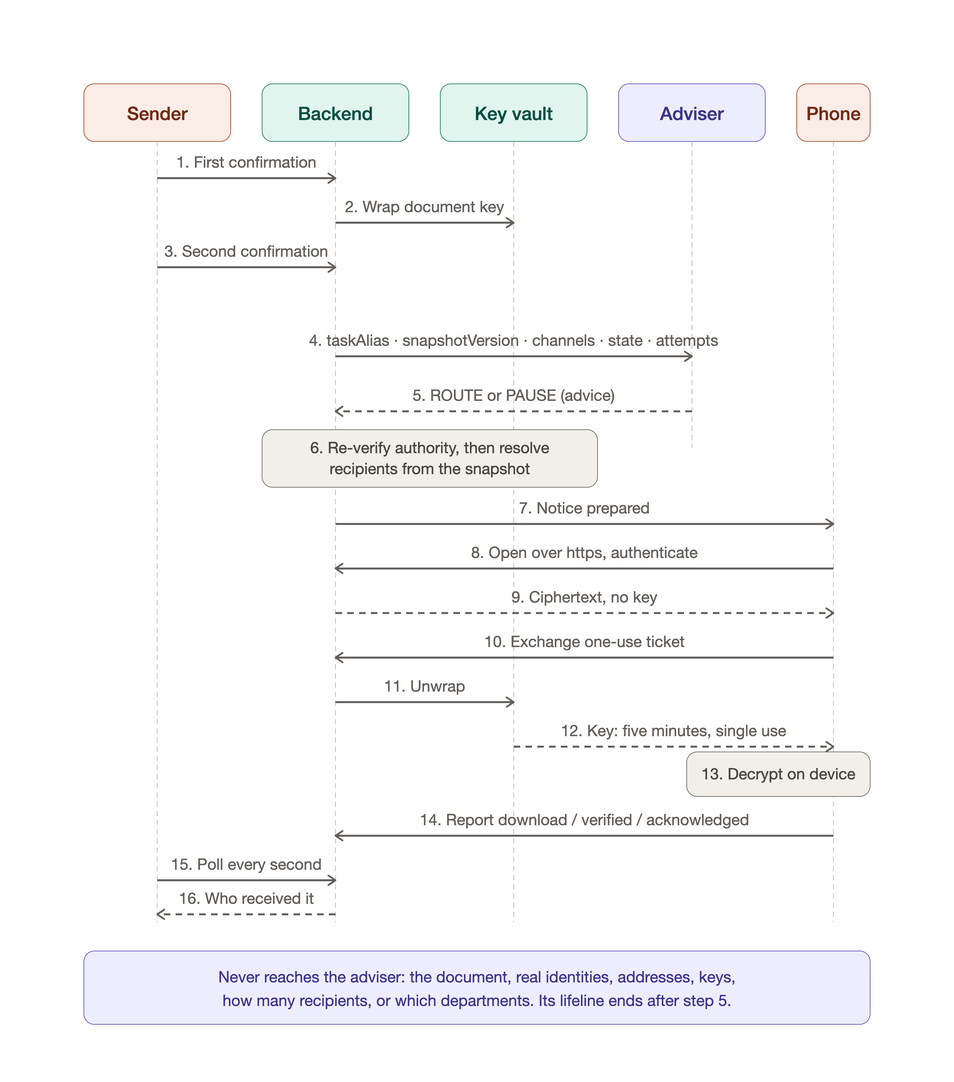
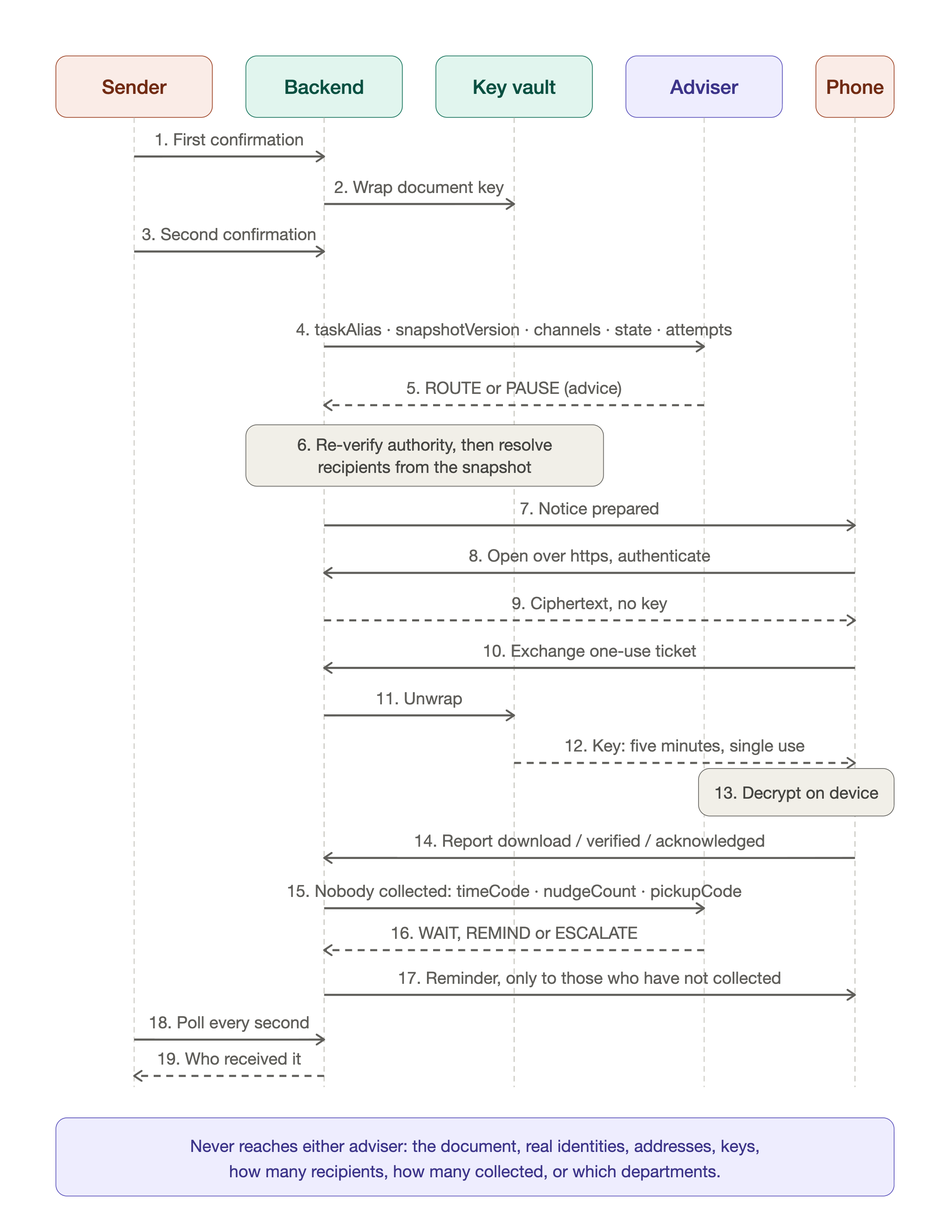
docs: bring every surface in line with the second adviser
A delivery follow-up adviser was added and the rest of the project went on
describing one. An audit against the code found sixteen statements that were
wrong rather than merely stale, and the user-facing ones mattered most.

public/index.html said "AI suggests approved routes only", in both languages.
The word only was false: the adviser also proposes WAIT, REMIND and ESCALATE,
none of which is a route. It was the first claim a judge would read.

public/app.js returned early on DRY_RUN_PREPARED, which stopped the poll loop
before the line that tells the sender work continues without the page open --
for exactly the state where follow-ups now keep running. The Chinese label for
that state said the delivery was finished, and the audit dashboard rendered the
new DELIVERY_FOLLOWUP event and its four reason codes as raw English
identifiers, because t() falls back to its key. ADVISER_UNAVAILABLE was
translated as a routing failure although both passes raise it.

The three diagrams asserted the same thing structurally. The sequence diagram
cut the adviser's lifeline at step five, so it drew a model that is never
consulted again; the state machine drew DRY_RUN_PREPARED with an inbound arrow
and no outbound one, which is the definition of an absorbing state and is what
this feature stopped being true. Both are redrawn and re-measured for overflow,
and the trust boundary now shows two questions with two projections rather than
one. All six rasters are regenerated.
[…]

diff --git a/public/i18n.js b/public/i18n.js
@@ -7,7 +7,7 @@ export const labels = {
   'Provider not configured; no verified model call': '模型服務未就緒；尚無已驗證的真實呼叫。',
   'Configured model (not execution evidence)': '設定的模型（不代表已執行）',
   'Human approves recipients and delivery limits twice.': '人：指定收件名單與交付限制，兩次確認後核准。',
-  'AI suggests approved routes only; it cannot read files or grant access.': 'AI：只根據允許的代碼建議路由；不能看文件、金鑰或憑據，也不能擴權。',
+  'AI proposes an approved route, or whether to remind; it cannot read files or grant access.': 'AI：在已核准的渠道中提出路由，或判斷是否催促；不能看文件、金鑰或憑據，也不能擴權。',
   'Browser encrypts files; backend validates authority, releases keys and records receipts.': '固定程式：瀏覽器加密；後端驗證授權、控制取鑰與保存回報。加密不是 AI 執行。',
   'Delivery is simulated; no real email is sent.': '投遞：目前只模擬通知，沒有寄出真實 email。',
   'Status': '狀態', 'Reasons': '原因',
@@ -79,7 +79,7 @@ export const labels = {
   'Resume rejected; refresh task': '恢復遭拒，請重新載入任務',
   'AUTHORIZATION_INVALID': '授權失效', 'ACTOR_DISABLED': '發文身分已停用',
   'SNAPSHOT_INVALID': '核准版本失效', 'PACKET_CHANGED': '密文完整性驗證失敗',
-  'ADVISER_UNAVAILABLE': '路由建議服務無法使用', 'ADVICE_INVALID': '建議格式不合規',
+  'ADVISER_UNAVAILABLE': '顧問模型無法使用', 'ADVICE_INVALID': '建議格式不合規', 'FOLLOWUP_WAIT': '判定為繼續等待', 'FOLLOWUP_REMIND': '判定為再次提醒', 'FOLLOWUP_ESCALATE': '判定為交付人工處理', 'FOLLOWUP_METADATA_INVALID': '催促投影不合規',
   'ADVICE_PAUSED': '建議暫停', 'RECIPIENT_DISABLED': '收件身分已停用',
   'DELIVERY_CONFIGURATION_INVALID': '投遞設定不合規', 'RETRY_EXHAUSTED': '重試額度已用完',
   'Loading authorizations': '正在載入授權', 'Authorizations loaded': '授權已載入',
@@ -142,14 +142,14 @@ export const labels = {
   'Issuing timed access credential...': '正在申請短效存取憑證', 'Waiting for policy decision.': '等待權限驗證。',
   'Checking signed credential against decode policy...': '正在驗證憑證與存取權限',
   'Ciphertext was not released to this decode path.': '驗證未通過，未提供密文。',
-  DRY_RUN_PREPARED: '模擬投遞完成（未寄信）', RETRY_WAIT: '等待有限重試', OUTCOME_UNKNOWN: '結果未知，停止自動重送',
+  DRY_RUN_PREPARED: '通知已備妥（未寄信，仍在追蹤）', RETRY_WAIT: '等待有限重試', OUTCOME_UNKNOWN: '結果未知，停止自動重送',
   PAUSED: '嘗試次數用盡，已停止', PENDING_CHECK: '等待檢查', APPROVED: '已核准', DRAFT: '草稿', LOCKED: '已固定草稿',
   INVALIDATED: '舊版失效', REVOKED: '已撤銷', ALLOW: '允許', DENY: '拒絕', INFO: '紀錄',
   synthetic_fixture: '合成測試建議（非真實模型呼叫）', demo_fallback: '本機示範', Demo: '本機示範',
   CAPABILITY_MATCH: '符合允許的傳輸能力', STATE_CHANGED: '狀態已變更', STATE_CONFLICT: '版本或狀態衝突',
   ACCESS_DENIED: '未通過權限驗證', INVALID_REQUEST: '要求格式不符', SERVICE_UNAVAILABLE: '服務暫時不可用',
   DELIVERY_UPDATED: '投遞狀態更新', REQUEST_REJECTED: '要求被拒絕', SNAPSHOT_TRANSITION: '版本狀態變更',
-  DELIVERY_TRANSITION: '投遞狀態變更', PACKAGE_CREATED: '密件已建立', TIMED_CREDENTIAL_ISSUED: '已發行短效憑證',
+  DELIVERY_TRANSITION: '投遞狀態變更', DELIVERY_FOLLOWUP: '催促決策', PACKAGE_CREATED: '密件已建立', TIMED_CREDENTIAL_ISSUED: '已發行短效憑證',
   DECODE_ATTEMPT: '解密驗證', PACKAGE_REVOKED: '密件已撤銷',
   document: '文件', taskId: '任務代碼', version: '版本', recipients: '核准收件人', channels: '允許渠道',
   expiresAt: '到期時間', commitment: '版本指紋', policy: '政策建議', envelopePreview: '封裝預覽',

diff --git a/delivery-followup.js b/delivery-followup.js
@@ -5,9 +5,10 @@ import { normalizeDownloadPolicy } from './download-policy.js';
 /**
  * The delivery loop as built handles a notice that could not be prepared: a transient failure
  * becomes RETRY_WAIT and is retried under a bounded backoff. It does not handle the other half,
- * which is a notice that was prepared and that nobody acted on. DRY_RUN_PREPARED is terminal in
- * the worker, so a REQUIRED_ACK task can sit untouched until its deadline passes and a single
- * overdue record is written — by which time the delivery that had to happen has not happened.
+ * which is a notice that was prepared and that nobody acted on. DRY_RUN_PREPARED used to be the end
+ * of the worker's interest, so a REQUIRED_ACK task sat untouched until its deadline passed and a
+ * single overdue record was written — by which time the delivery that had to happen had not
+ * happened. This module is what makes that state non-terminal.
  *
  * This module closes that half. It only applies to REQUIRED_ACK, because TIME_LIMITED answers the
  * question by itself: the window shuts and there is nothing left to chase.

diff --git a/public/app.js b/public/app.js
@@ -98,9 +98,12 @@ async function trackDelivery(id, version) {
         const prefix = location.pathname.startsWith('/zh-TW/') ? '/zh-TW' : '';
         recipientLink.href = prefix + '/decode.html?id=' + encodeURIComponent(id) + '&version=' + version;
         recipientLink.hidden = false;
-        return;
       }
-      if (!['PENDING_CHECK', 'RETRY_WAIT'].includes(job.status)) return;
+      // A prepared notice used to end this loop. It no longer ends the work: a delivery that must be
+      // acknowledged is reconsidered in the backend until its deadline, and a reminder returns to
+      // this same state. Leaving the loop here suppressed the one line that tells the sender work
+      // continues without the page open, for exactly the state where that is now true.
+      if (!['PENDING_CHECK', 'RETRY_WAIT', 'DRY_RUN_PREPARED'].includes(job.status)) return;
     } catch {
       if (generation === trackingGeneration) setText(deliveryStatus, 'Delivery status unavailable');
       return;

diff --git a/public/index.html b/public/index.html
@@ -10,7 +10,7 @@
 <p id="modelRuntimeStatus" role="status" data-i18n="Model status unavailable">Model status unavailable</p>
 <p id="configuredModel"></p>
 <ul><li data-i18n="Human approves recipients and delivery limits twice.">Human approves recipients and delivery limits twice.</li>
-<li data-i18n="AI suggests approved routes only; it cannot read files or grant access.">AI suggests approved routes only; it cannot read files or grant access.</li>
+<li data-i18n="AI proposes an approved route, or whether to remind; it cannot read files or grant access.">AI proposes an approved route, or whether to remind; it cannot read files or grant access.</li>
 <li data-i18n="Browser encrypts files; backend validates authority, releases keys and records receipts.">Browser encrypts files; backend validates authority, releases keys and records receipts.</li>
 <li data-i18n="Delivery is simulated; no real email is sent.">Delivery is simulated; no real email is sent.</li></ul>
 </section>

diff --git a/docs/agent/local-workflow.md b/docs/agent/local-workflow.md
@@ -10,7 +10,7 @@ The local sender confirms twice through a versioned snapshot. Load authorized re
 
 Transport remains email dry-run after both confirmations. `DRY_RUN_PREPARED` means only notice preparation, not complete handoff. Receipt and download-window states are separate. No further sender acknowledgement is required after the recipient reports complete receipt, and there is no promotion to real email.
 
-Humans own the recipient selection and grant. AI may recommend only approved routes; encryption and authorization remain outside AI. Documents, cryptographic material, credentials, and the full draft body are not returned through the coordinator model interface. Current tests use synthetic recommendations rather than live Nemotron inference.
+Humans own the recipient selection and grant. AI is asked two bounded questions and nothing else: which approved channel a prepared job should use, and whether an unacknowledged delivery should be waited on, reminded or escalated. Encryption and authorization remain outside AI, and so does who a reminder reaches, which fixed code resolves from receipts no adviser sees. Documents, cryptographic material, credentials, and the full draft body are not returned through the coordinator model interface. Current tests use synthetic recommendations rather than live Nemotron inference.
 
 The entrypoint uses an authorization id and bounded directory selection. Private task/version mappings and unattended dry-run processing are implemented; arbitrary natural-language role resolution and real endpoint/channel bindings are not. This scope refers to this project's tests, not independently verified legacy Shared Room MCP behavior.
 
@@ -38,19 +38,19 @@ Configure a local MCP client to launch `node scripts/coordinator-mcp.mjs` from t
 
 The HTTP coordinator accepts taskAlias and snapshotVersion and, for legacy delivery, a request id and allowlisted channel. It does not accept internal package IDs. Its responses are projected metadata, not raw package, credential, or audit records. The old application MCP-style endpoint is operator-only and cannot issue credentials.
 
-Default recommendations are labeled `synthetic_fixture`. Real file inference additionally requires LOCAL_ONLY=false, COORDINATOR_PROVIDER=nebius and backend provider settings; otherwise cloud mode fails closed. File adviser requests are allowlisted code-only input, bounded response size and deadline, with strict task/version/channel response validation. Worker reloads authorization after advice before dispatch. Adapter tests use fake fetch; they are not live Nemotron evidence or evidence of a semantic advantage over rules.
+Default recommendations are labeled `synthetic_fixture`. Real file inference additionally requires LOCAL_ONLY=false, COORDINATOR_PROVIDER=nebius and backend provider settings; otherwise cloud mode fails closed. Both adviser requests are allowlisted code-only input with a bounded response size and deadline. Each has its own validator: routing advice must carry taskAlias, snapshotVersion, action, channel and reasonCode, and follow-up advice must carry taskAlias, snapshotVersion, action and reasonCode, with no channel key at all. The follow-up validator additionally refuses a reminder past the budget, any action other than WAIT on a fully collected delivery, and a reason that contradicts the input it was given. Worker reloads authorization after advice before dispatch. Adapter tests use fake fetch; they are not live Nemotron evidence or evidence of a semantic advantage over rules.
 
 ## State and Persistence
 
 New snapshots contain private task/version-scoped UUID aliases for selected recipients and their approved simulated endpoints. The snapshot commitment binds this mapping; confirmation and dispatch verify it. The coordinator sees only the alias projection, never private recipient ids or endpoint ids. Endpoints are explicitly dry-run identifiers, not real email/address resolution. Pre-mapping snapshots fail closed on the new server; create a new reviewed draft instead of silently migrating old approvals. Existing running servers are not automatically upgraded by source edits.
 
 - `PENDING_CHECK`: no delivery attempt recorded.
-- `DRY_RUN_PREPARED`: a local notice was prepared; no email was sent and no remote delivery is claimed.
+- `DRY_RUN_PREPARED`: a local notice was prepared; no email was sent and no remote delivery is claimed. For a delivery that must be acknowledged this is not the end: while its deadline has not passed the job is reconsidered here, and a reminder returns it to this same state rather than moving it on.
 - `RETRY_WAIT`: a configured synthetic transient failure, with exponential backoff.
 - `OUTCOME_UNKNOWN`: ambiguous outcome; no automatic resend.
 - `PAUSED`: attempts exhausted; this processing run stops without automatic resend.
 
-The human-owned grant may set `simulatedOutcomes` to `prepared`, `transient`, or `unknown`. Clients cannot select outcomes. File jobs run in the backend timer with bounded retries; closing the sender page does not stop them. The sender display polls status and offers manual receipt refresh. Legacy package tools retain explicit delivery requests for regression compatibility.
+The human-owned grant may set `simulatedOutcomes` to `prepared`, `transient`, or `unknown`. Clients cannot select outcomes. File jobs run in the backend timer with bounded retries, and prepared REQUIRED_ACK jobs are reconsidered there on a cadence taken from each task's own window rather than from the clock. Closing the sender page does not stop either pass. The sender display polls status and offers manual receipt refresh. Legacy package tools retain explicit delivery requests for regression compatibility.
 
 Requests and transitions are persisted with the package. A per-process queue serializes API operations and a data-directory lock prevents two instances of this version from sharing a store. After an unclean crash, inspect the recorded PID before manually clearing a stale lock. Do not run old server versions against this data directory. JSON parse errors fail closed rather than replacing stores with empty arrays.
 
@@ -58,7 +58,7 @@ Requests and transitions are persisted with the package. A per-process queue ser
 
 Snapshot approval and its unique job are stored in one task aggregate. Before dispatch or credential release, the server rereads task/version state; old cache assertions cannot authorize access. An approved version is not overwritten by edits, and a new draft does not revoke it. Explicit revocation prevents future credential release and verification but cannot recall keys or plaintext already obtained.
 
-Audit records use fixed task/version/event/reason/state/time/attempt fields. Identity, endpoint, credential and raw-error fields are excluded; model tools receive only their separate status projection. Snapshot and delivery transitions queue sanitized audit events alongside state, then replay and acknowledge each event idempotently. Other legacy audit producers are still separate writes. No full database transaction, power-loss guarantee or tamper-proof storage is claimed.
+Audit records use fixed task/version/event/reason/state/time/attempt fields. Identity, endpoint, credential and raw-error fields are excluded; model tools receive only their separate status projection. Snapshot transitions, delivery transitions and follow-up decisions queue sanitized audit events alongside state, then replay and acknowledge each event idempotently. Other legacy audit producers are still separate writes. No full database transaction, power-loss guarantee or tamper-proof storage is claimed.
 
 Tests now also cover four material edits, old confirmation tokens, parallel duplicate confirmations, approved-snapshot preservation, explicit revocation, ciphertext/IV/salt binding, actual server restart, terminal HTTP outcomes and persisted audit privacy. A local browser check verified first confirmation, edit invalidation, version 2 reconfirmation, second confirmation and one-attempt dry-run. Live provider evidence is not part of these checks.
 

diff --git a/SUBMISSION_GAP_CHECK.md b/SUBMISSION_GAP_CHECK.md
@@ -1,0 +1,98 @@
+# Submission Gap Check
+
+Updated: 2026-09-19 Asia/Taipei
+
+## Current Gate Status
+
+Local self-checks against the tracked tree:
+
+```text
+export-gate:      pass, blocking 0, P0 0, P1 0, P2 0
+release-boundary: PASS, findings 0
+localguard:       73 findings, 3 CRITICAL / 15 HIGH / 50 MEDIUM / 5 LOW
+npm test:         93 of 93, thirty consecutive runs
+preflight:hosted: 7 of 8, 0 blocking, 1 advisory
+fuzz:             40,000 projections, 2,400 worker ticks, 0 invariant violations
+```
+
+The CRITICAL and most HIGH findings are adjudicated false positives recorded in
+`SECURITY_SCAN_EVIDENCE.md`: three deliberate canary strings in adviser tests, field names rather
+than values for the privacy rule, and a model filename matched as a high-entropy literal.
+
+## Devpost Required Items
+
+| Requirement | Status | Evidence |
+|---|---|---|
+| Public code repository | Done | `https://github.com/jiarong0423/zero-trust-edge-enclave` |
+| MIT license, visible at repository top | Done | `LICENSE` |
+| README with setup instructions | Done | `README.md`, section Run Locally, verified from a fresh clone |
+| README highlights NVIDIA model use | Done | `README.md`, section NVIDIA / Nebius |
+| README states where Token Factory carried the work | Done | same section |
+| README states other Nebius services used | Done | same section, states none are used |
+| Architecture diagrams | Needs update | `docs/assets/`, three SVG and their PNG and JPG renders; see Documentation Drift below |
+| Working demo or test build | Done | Repository is the test build; `npm run setup:local && npm test && npm run dev` |
+| Track | Form-only | Best Apps and Agents |
+| New or existing project | Form-only | New; first commit 2026-09-07, after the 2026-08-26 start |
+| Platform feedback | Drafted | `logs/decisions/devpost_submission_20260918.md`, not published |
+| Demo video URL | Still needed | Not recorded. Required to submit |
+| Builders and Brews city | Form-only | Taipei, only if attendance is confirmed |
+| Submitter type, country, declarations | Form-only | Fill directly in Devpost |
+
+## Documentation Drift, 2026-09-19
+
+A second adviser was added for delivery follow-up. The code is the ground truth: `ADVICE_KINDS` in
+`file-adviser.js` holds `route` and `followup`, each with its own five-field projection and its own
+validator, and `advanceFollowups` in `file-worker.js` re-enters `DRY_RUN_PREPARED`, which is
+therefore no longer terminal.
+
+An audit against that ground truth found statements elsewhere that no longer hold. They are split
+by whether a reader would be misled or merely under-informed.
+
+### Wrong: states something untrue
+
+| Location | Statement | Why it is wrong |
+|---|---|---|
+| `public/index.html:13` | "AI suggests approved routes **only**" | The adviser also proposes WAIT, REMIND and ESCALATE, none of which is a route. Sender landing page, both languages. |
+| `public/i18n.js:10` | 「只根據允許的代碼建議路由」 | Same claim, more emphatic in Chinese. |
+| `public/app.js:97-102` | Early return on `DRY_RUN_PREPARED` | Suppresses the "Status tracking stopped; backend continues" line for exactly the state where follow-ups keep running. |
+| `public/i18n.js:145` | `DRY_RUN_PREPARED: '模擬投遞完成（未寄信）'` | 「完成」 tells a Chinese-language sender the job is finished; for REQUIRED_ACK it is not. |
+| `public/i18n.js:82` | `ADVISER_UNAVAILABLE: '路由建議服務無法使用'` | The same code is also the follow-up pass's rejection; the label names the wrong subsystem. |
+| `docs/assets/architecture-sequence.svg:34` | Adviser lifeline ends at `y=318` | Asserts the model is never consulted after routing. |
+| `docs/assets/architecture-sequence.svg:10,73-74` | "The adviser lifeline ends after step five" | Stated in the accessible description and the footnote. |
+| `docs/assets/architecture-state-machine.svg:53-55` | `DRY_RUN_PREPARED` drawn with no outgoing edge | Drawn as an absorbing state; the follow-up pass re-enters it. |
+| `docs/assets/architecture-state-machine.svg:10` | Transition list in the description | Enumerates every transition and omits the follow-up self-transition. |
+| `docs/agent/approved-delivery-architecture.md:76` | 「五欄是 taskAlias、snapshotVersion、channels、state、attempts」 | Presented as the definition of the AI boundary; there are two such projections. |
+| `docs/agent/approved-delivery-architecture.md:39` | Mermaid node for the five-field allowlist | Same defect drawn into the graph. |
+| `docs/agent/approved-delivery-architecture.md:77` | "模型不可用或輸出無效時工作進入 PAUSED" | False for the follow-up pass, which records `followupPausedBy` and leaves the status unchanged. |
+| `docs/agent/local-workflow.md:13` | "AI may recommend only approved routes" | Same exclusivity claim as the landing page. |
+| `docs/agent/local-workflow.md:41` | "strict task/version/channel response validation" | `validateFollowupAdvice` forbids a `channel` key. |
+| `docs/agent/zeabur-deployment.md:65,68` | Provider-quota bound | Counts the routing pass only; the follow-up pass issues calls on a separate schedule, so the stated worst case is arithmetically wrong. |
+| `docs/agent/security-gate-summary.md:58,64` | "all 71 npm tests", "the manifest is now 89" | Now 93 tests and 104 manifest entries. |
+
+### Incomplete: true but omits the second adviser
+
+`docs/assets/architecture-trust-boundary.svg:61`, the header comment naming sources of truth in all
+three SVGs, the reason-code panel in the state machine, `docs/agent/local-workflow.md:47-51,61`,
+`docs/agent/official-rule-alignment.md:15,45,58`, `docs/agent/zeabur-deployment.md:23`,
+`scripts/coordinator-mcp.mjs:16`, `MCP_SERVER_ALLOWLIST.md:53,58`, `SECURITY.md:9`, and the audit
+event and reason-code label tables in `public/i18n.js:80-84,151-153`, which fall back to raw English
+identifiers for the new `DELIVERY_FOLLOWUP` type and the four `FOLLOWUP_*` codes.
+
+### Checked, no finding
+
+`env.sample` has no comments and no follow-up variable to add. `public/audit.html` renders event
+types generically. The remaining pages carry no copy describing the adviser, the state set or the
+audit event types. `docs/assets/architecture-state-machine.svg:10` still correctly says all ten
+states come from the audit allowlist; the follow-up work added event types and codes, not states.
+
+## Corrected In This Pass
+
+`README.md` and `THREAT_MODEL.md`, English and Traditional Chinese, now describe both advisers,
+their separate projections, and that reminder targets are resolved by fixed code from receipts no
+adviser sees.
+
+## Not Yet Addressed
+
+Everything in the two tables above except `README.md` and `THREAT_MODEL.md`. The user-facing copy in
+`public/` is the highest priority of what remains, because it is what a judge reads first and one
+of its claims is false rather than merely stale.

diff --git a/THREAT_MODEL.md b/THREAT_MODEL.md
@@ -1,6 +1,6 @@
 # Threat Model
 
-Review date: 2026-09-08. Revised 2026-09-18: group codes were added to the private mapping for the sender and receipt surfaces, and deliberately kept out of every adviser and coordinator projection. Current file workflow, not the legacy passphrase demo. A Traditional Chinese translation follows the English text.
+Review date: 2026-09-08. Revised 2026-09-18: a second adviser was added for delivery follow-up, with its own projection and validator, and group codes were added to the private mapping for the sender and receipt surfaces, and deliberately kept out of every adviser and coordinator projection. Current file workflow, not the legacy passphrase demo. A Traditional Chinese translation follows the English text.
 
 ## Assets
 
@@ -22,7 +22,7 @@ Sender and recipient browsers handle plaintext. The local backend is trusted for
 
 ## Data Flow
 
-Browser encryption precedes the first confirmation, which stages ciphertext and a wrapped key. Second confirmation approves the unchanged snapshot and creates its unique job. Five allowlisted metadata fields may go to the adviser: taskAlias, snapshotVersion, channels, state and attempts. The adviser is told nothing about recipients — not their identifiers, not their group codes, not how many there are. Recipient selection is settled by human approval before the adviser is called, and the dispatch gate resolves recipients from the snapshot afterwards. Fixed code reloads authority before dispatch. Recipients authenticate and obtain ciphertext plus a separately validated key ticket, decrypt locally and report receipt.
+Browser encryption precedes the first confirmation, which stages ciphertext and a wrapped key. Second confirmation approves the unchanged snapshot and creates its unique job. Two advisers exist, each with its own allowlisted five-field projection and its own validator. Routing receives taskAlias, snapshotVersion, channels, state and attempts, and answers ROUTE or PAUSE. Follow-up, which applies only to a REQUIRED_ACK delivery before its deadline, receives taskAlias, snapshotVersion, timeCode, nudgeCount and pickupCode, and answers WAIT, REMIND or ESCALATE. Neither is told anything about recipients — not their identifiers, not their group codes, not how many there are. timeCode is a position within the task's own window rather than a time, and pickupCode is an ordinal, never a count, so neither can be converted back into a clock value or a headcount. A reminder's targets are resolved by fixed code from receipts no adviser sees, and whoever already collected is passed over. Recipient selection is settled by human approval before the adviser is called, and the dispatch gate resolves recipients from the snapshot afterwards. Fixed code reloads authority before dispatch. Recipients authenticate and obtain ciphertext plus a separately validated key ticket, decrypt locally and report receipt.
 
 ## Threats And Controls
 
@@ -50,7 +50,7 @@ See docs/agent/security-gate-summary.md for scoped review; tests are not a produ
 
 # 威脅模型（繁體中文）
 
-檢視日期 2026-09-08。2026-09-18 修訂：私有映射表新增組別代號供發文者介面與收據使用，並刻意排除於所有顧問與協調投影之外。適用目前的檔案流程，非舊版通行碼展示。本節為上方英文內容的翻譯。
+檢視日期 2026-09-08。2026-09-18 修訂：新增投遞催促顧問，具備獨立投影與驗證器；私有映射表新增組別代號供發文者介面與收據使用，並刻意排除於所有顧問與協調投影之外。適用目前的檔案流程，非舊版通行碼展示。本節為上方英文內容的翻譯。
 
 ## 資產
 
@@ -72,7 +72,7 @@ See docs/agent/security-gate-summary.md for scoped review; tests are not a produ
 
 ## 資料流
 
-瀏覽器加密先於第一次確認，該次確認暫存密文與封裝金鑰。第二次確認核准未變動的快照並建立唯一工作。五個允許欄位可送至顧問模型：taskAlias、snapshotVersion、channels、state、attempts。顧問模型對收件人一無所知 —— 不知道識別碼、不知道組別代號、也不知道有幾個人。收件人由人在呼叫模型之前核准決定，之後由投遞閘門從快照還原。固定程式在派送前重新載入授權。收件人通過驗證後取得密文與另行驗證的金鑰票券，在本地解密並回報收訖。
+瀏覽器加密先於第一次確認，該次確認暫存密文與封裝金鑰。第二次確認核准未變動的快照並建立唯一工作。有兩個顧問模型，各自有獨立的五欄投影與獨立的驗證器。路由顧問收到 taskAlias、snapshotVersion、channels、state、attempts，回答 ROUTE 或 PAUSE。催促顧問只用於 REQUIRED_ACK 模式且期限未到的投遞，收到 taskAlias、snapshotVersion、timeCode、nudgeCount、pickupCode，回答 WAIT、REMIND 或 ESCALATE。兩者對收件人都一無所知 —— 不知道識別碼、不知道組別代號、也不知道有幾個人。timeCode 是該任務自身窗口內的相對位置而非時間，pickupCode 是序位而非數量，兩者都無法反推回時鐘值或人數。提醒要送給誰由固定程式從顧問看不到的收據還原，已經領取者直接跳過。收件人由人在呼叫模型之前核准決定，之後由投遞閘門從快照還原。固定程式在派送前重新載入授權。收件人通過驗證後取得密文與另行驗證的金鑰票券，在本地解密並回報收訖。
 
 ## 威脅與控制
 

diff --git a/docs/agent/approved-delivery-architecture.md b/docs/agent/approved-delivery-architecture.md
@@ -1,6 +1,6 @@
 # 收斂版密件交付架構
 
-更新：2026-09-08。範圍：單一本機服務、合成名單、email dry-run。真實 Nebius Token Factory／NVIDIA Nemotron 受限呼叫已有隔離測試證據；預設仍為本地合成回應，並非預設上雲。沒有多地協調、數位簽章或發文者二次回覆協議。真實寄送、企業 SSO、獨立 KMS 與地端模型實測不在本輪交付範圍。
+更新：2026-09-19（原 2026-09-08；新增投遞催促顧問）。範圍：單一本機服務、合成名單、email dry-run。真實 Nebius Token Factory／NVIDIA Nemotron 受限呼叫已有隔離測試證據；預設仍為本地合成回應，並非預設上雲。沒有多地協調、數位簽章或發文者二次回覆協議。真實寄送、企業 SSO、獨立 KMS 與地端模型實測不在本輪交付範圍。
 
 本圖表示原始碼已實作的界線，不代表現有預覽程序已載入最新模型提示詞，也不代表 GitHub 已發布。實線為本地流程，虛線為受限建議或模擬通知；不是物理單向網路。
 
@@ -23,7 +23,7 @@ flowchart TB
     Store["密文暫存<br/>文件金鑰另行包裝"]
     Commit["持久核准與工作紀錄"]
     Gate["固定程式驗證<br/>名單、版本、撤銷、渠道"]
-    Worker["有限重試<br/>只準備模擬通知"]
+    Worker["有限重試與催促迴路<br/>只準備模擬通知"]
     Access["收件身分驗證<br/>密文與取鑰分開檢查"]
     Mode{"已核准交付模式"}
     Required["指定人交付<br/>無額外下載截止<br/>仍須有效授權"]
@@ -36,8 +36,8 @@ flowchart TB
     Mode --> Timed --> Key
   end
   subgraph AI["受限協作區"]
-    Codes["五欄白名單<br/>別名、版本、渠道、狀態、次數"]
-    Adviser["後端模型介面<br/>預設合成回應"]
+    Codes["兩組五欄白名單<br/>路由：渠道、狀態、次數<br/>催促：時間帶、催促次數、領取序位"]
+    Adviser["後端模型介面<br/>兩個決策・預設合成回應"]
     Cloud["明確啟用才呼叫<br/>Nebius／NVIDIA Nemotron<br/>真實呼叫已有測試"]
     MCP["受限 MCP<br/>查狀態／請求建議<br/>無文件與取鑰工具"]
     Codes -.-> Adviser
@@ -73,8 +73,9 @@ flowchart TB
 ## 不變邊界
 
 - AI 不取得文件、摘要、密文、真實名單、私密映射、金鑰或憑據。只能提出既有允許渠道的建議；固定程式重新驗證。
-- 五欄是 taskAlias、snapshotVersion、channels、state、attempts。真實模型須同時明確設定 LOCAL_ONLY=false、COORDINATOR_PROVIDER=nebius 與後端金鑰；僅放金鑰不會啟用。MCP 與模型不是同一元件，MCP 不直接觸發檔案交付。
-- 目前模型不可用、輸出無效或建議暫停時，工作進入 PAUSED；不宣稱雲端中斷就自動改接地端模型。權限有效性在模型前後都重查。
+- 有兩組五欄投影，各自獨立驗證。路由：taskAlias、snapshotVersion、channels、state、attempts，回答 ROUTE 或 PAUSE。催促：taskAlias、snapshotVersion、timeCode、nudgeCount、pickupCode，回答 WAIT、REMIND 或 ESCALATE，僅適用於 REQUIRED_ACK 且期限未到的投遞。
+- timeCode 是該任務自身窗口的相對位置，pickupCode 是序位不是數量，兩者都推不回時鐘值或人數。提醒要送給誰由固定程式從收據還原，顧問看不到，已領取者直接跳過。真實模型須同時明確設定 LOCAL_ONLY=false、COORDINATOR_PROVIDER=nebius 與後端金鑰；僅放金鑰不會啟用。MCP 與模型不是同一元件，MCP 不直接觸發檔案交付。
+- 路由階段模型不可用、輸出無效或建議暫停時，工作進入 PAUSED。催促階段不同：被拒絕只記錄 followupPausedBy 並延後重新考慮，狀態維持 DRY_RUN_PREPARED，不會把工作推進暫停。兩者都不宣稱雲端中斷就自動改接地端模型，權限有效性在模型前後都重查。
 - 兩次確認屬於同一發文者，不是雙人覆核或 MFA。版本、名單或授權有變動，就不能沿用舊確認。
 - 已核准快照不被覆寫；新審核建立新版本。授權失效或撤銷後，不可用新版本名義繼續舊版本取用。
 - 指定人模式不另加 1／4／24 小時的文件下載限制，但不繞過真實授權期限或撤銷。授權續接需要管理員有效授權與發文者重新確認。

diff --git a/docs/agent/official-rule-alignment.md b/docs/agent/official-rule-alignment.md
@@ -12,7 +12,7 @@ Official rules sections 4 and 6 were rechecked on 2026-09-07. This is a dated in
 - Private development may stay private. The public submission repository must include necessary working source, assets, license and instructions; mock files or a wrapper dependent on undisclosed private core code are insufficient.
 - Do not publish API keys, existing bearer credentials, operational stores or private logs. Synthetic test identities should be generated during setup.
 - Submission materials require English or English translations, including video, descriptions and testing instructions.
-- MCP is a tool boundary, not automatic novelty. Humans approve recipients, models propose routes, and fixed code enforces authorization and cryptography. Real model usefulness versus deterministic routing needs evidence.
+- MCP is a tool boundary, not automatic novelty. Humans approve recipients, the model proposes a route and separately whether to chase an unacknowledged delivery, and fixed code enforces authorization and cryptography. Real model usefulness versus deterministic routing needs evidence.
 - Current state: bounded real NVIDIA/Nebius calls are recorded in the red/white defense material, including failed calls and separate successful retests. No superiority to rules or production security claim follows. Current release review supersedes historical export passes; remote visibility is not established by this review.
 - Remaining delivery: accessible test-build URL, public functional source, short public video, platform feedback, dated prior-work disclosure and free judge-access clarification.
 - Unresolved organizer question: does a local test build requiring judges to supply their own paid/provider key satisfy free unrestricted testing, and which access alternative is acceptable without exposing developer keys? Obtain organizer clarification; do not assume BYO-key-only access is sufficient.
@@ -42,7 +42,7 @@ Official requirement:
 Project alignment:
 
 - The configured model is `nvidia/nemotron-3-super-120b-a12b`.
-- NVIDIA Nemotron provides bounded code-only route proposals, not permission decisions or document analysis.
+- NVIDIA Nemotron provides bounded code-only proposals for two distinct decisions, routing and delivery follow-up, each with its own allowlisted projection and validator. Neither is a permission decision and neither involves document analysis.
 
 Status: aligned after real Token Factory call evidence, pending final demo narration.
 
@@ -55,7 +55,7 @@ Best fit:
 Reason:
 
 - The project is a usable enterprise workflow app: sender enclave, decode gate, transport shell, audit dashboard, timed credential, and one-way delivery dry-run.
-- It uses Nemotron on Nebius for restricted route proposals. Its added value over fixed rules remains limited and must not be overstated.
+- It uses Nemotron on Nebius for two restricted proposal types. Routing adds little over a fixed rule and that must not be overstated; the follow-up decision has no deterministic equivalent, because when to chase an unacknowledged delivery depends on how time remaining, reminders already ignored and partial collection sit against each other.
 
 Status: aligned.
 

diff --git a/docs/agent/zeabur-deployment.md b/docs/agent/zeabur-deployment.md
@@ -20,9 +20,9 @@ or newer.
 | `HOST` | `0.0.0.0` | The local default stays `127.0.0.1`. That default is deliberate — a developer running this on a laptop should not expose it — so the loopback binding is overridden per deployment rather than changed in code. |
 | `PORT` | supplied by Zeabur | Already read from the environment. |
 | `DATA_DIR` | `/data` | Must point at a mounted volume. Without one, ciphertext, wrapped keys, the access registry and the audit trail are lost on every restart. |
-| `LOCAL_ONLY` | `false` | Left at the default `true`, every route recommendation is `synthetic_fixture` and a judge cannot observe a real provider call. |
-| `COORDINATOR_PROVIDER` | `nebius` | A key alone does not enable inference; this is the second half of the switch. |
-| `NEBIUS_API_KEY` | Zeabur secret | Backend only. Never in Git, never in browser code, never in model context. |
+| `LOCAL_ONLY` | `true` | The default. Both adviser kinds fall back to `synthetic_fixture`, which is the intended posture for an instance deployed without a key. |
+| `COORDINATOR_PROVIDER` | `synthetic_fixture` | The default. A key alone would not enable inference either; both halves of the switch are left off. |
+| `NEBIUS_API_KEY` | not set | Deliberately omitted. Without it both advisers stay on the synthetic fixture and issue no provider request, so a hosted instance spends no quota and carries no credential. Evidence for real inference lives in `SECURITY_SCAN_EVIDENCE.md`, measured where the key is held. |
 | `NEBIUS_BASE_URL` | `https://api.tokenfactory.nebius.com/v1` | The adviser refuses any other host. |
 | `NEBIUS_MODEL` | `nvidia/nemotron-3-super-120b-a12b` | Must start with `nvidia/` or the adviser refuses it. |
 | `TOKEN_SIGNING_SECRET` | Zeabur secret | Signs timed decode credentials. |
@@ -62,10 +62,15 @@ so no additional rate limiting was added:
 
 - every route that can reach a provider requires a bearer token
 - staged file tasks are capped at 50 (`507` beyond that)
-- `maxAttempts` is validated to 1–5 per grant, so each task retries at most five times
-- each request carries a five-second abort and `max_tokens: 512`
+- `maxAttempts` is validated to 1–5 per grant, so the routing pass asks at most five times per task
+- the follow-up pass asks a bounded number of further times: it applies only to `REQUIRED_ACK`
+  deliveries, stands down at the deadline, and reconsiders at the midpoint of what is left with a
+  floor of an eighth of the window, which is four decision points from approval
+- each request carries an abort deadline and a token ceiling, five seconds and 512 hosted
 
-Worst case is therefore in the low hundreds of calls, not an open endpoint.
+Both callers together are therefore bounded at roughly nine provider calls per task, and the
+50-task cap puts the worst case in the low hundreds, not an open endpoint. The follow-up pass is
+counted here because it is a second caller on a schedule `maxAttempts` does not govern.
 
 ## Security Posture Of A Hosted Instance
 

diff --git a/docs/agent/security-gate-summary.md b/docs/agent/security-gate-summary.md
@@ -55,10 +55,10 @@ No tests, canaries or scanner rules were removed to reduce counts. Genuine prote
 
 ## Functional Evidence
 
-The corrected clean candidate passed npm run check and all 71 npm tests (49 at the time of that candidate; the suite grew with the loopback outlet and the 2026-09-18 regression locks) using fresh temporary stores, with no provider calls or mail. The earlier missing-module failure is preserved in private history. Separate Chromium acceptance passed CSV, procurement DOCX and audit PDF flows: sender/recipient credential import, department/subset selection, private mapping, double confirmation, unauthorized recipient denial, exact-byte download and acknowledgement. Administrator mutation/rotation and desktop/mobile checks also passed. Synthetic fixtures were regenerated from shipped source; external browser requests were blocked.
+The corrected clean candidate passed npm run check and all 93 npm tests (49 at the time of that candidate; the suite grew with the loopback outlet, the 2026-09-18 regression locks, and the delivery follow-up contract) using fresh temporary stores, with no provider calls or mail. The earlier missing-module failure is preserved in private history. Separate Chromium acceptance passed CSV, procurement DOCX and audit PDF flows: sender/recipient credential import, department/subset selection, private mapping, double confirmation, unauthorized recipient denial, exact-byte download and acknowledgement. Administrator mutation/rotation and desktop/mobile checks also passed. Synthetic fixtures were regenerated from shipped source; external browser requests were blocked.
 
 ## Publication Boundary
 
 Fresh scanner counts remain separate from these dispositions. Owner acceptance of scoped HIGH/CRITICAL false positives, exact Git-index/history review, free judge-access clarification and release approval remain required. No push, deployment, preview restart or real model call is performed by this documentation review. Historical S8 passes are not current clearance.
 
-The corrected candidate scan (86 files at that time; the manifest is now 89) reports AI scanner 0 CRITICAL / 4 HIGH / 63 MEDIUM (export-gate PASS), release-boundary 0 findings, and LocalGuard 2 CRITICAL / 12 HIGH / 40 MEDIUM. The two additional LocalGuard HIGH hits come from the restored language files above. Raw findings are not suppressed; owner exception approval remains pending.
+The corrected candidate scan (86 files at that time; the manifest is now 104) reports AI scanner 0 CRITICAL / 4 HIGH / 63 MEDIUM (export-gate PASS), release-boundary 0 findings, and LocalGuard 2 CRITICAL / 12 HIGH / 40 MEDIUM. The two additional LocalGuard HIGH hits come from the restored language files above. Raw findings are not suppressed; owner exception approval remains pending.

diff --git a/README.md b/README.md
@@ -100,10 +100,19 @@ not enable it. Configure an untracked environment file using `env.sample`, and s
 `SKIP_LOCAL_ENV=true` only when deliberately loading that private configuration. Never place secrets
 in Git, browser code or model context.
 
-The adviser receives exactly `taskAlias`, `snapshotVersion`, `channels`, `state` and `attempts`, and
-returns exactly five fields. It cannot read documents, addresses, real identities or keys, cannot
-change recipients, extend expiry or authorize execution, and is not told who the recipients are, how
-many there are, or how they are grouped.
+Two decisions sit behind that contract, each with its own five-field projection and its own
+validator. Routing is asked whether a prepared job should go out on an approved channel or hold:
+`taskAlias`, `snapshotVersion`, `channels`, `state`, `attempts`, answered with `ROUTE` or `PAUSE`.
+Follow-up is asked what to do about a delivery that must be acknowledged and that nobody has
+collected: `taskAlias`, `snapshotVersion`, `timeCode`, `nudgeCount`, `pickupCode`, answered with
+`WAIT`, `REMIND` or `ESCALATE`.
+
+Neither adviser can read documents, addresses, real identities or keys, change recipients, extend
+expiry or authorize execution, and neither is told who the recipients are, how many there are, or
+how they are grouped. The follow-up projection is starved further still: `timeCode` is a position in
+the task's own window rather than a time, so an identical value means a different hour on a two-day
+task and a two-month one, and `pickupCode` is `PICKUP_NONE`, `PICKUP_SOME` or `PICKUP_ALL`, never a
+count. Fixed code decides who a reminder reaches, resolving it from receipts the adviser never saw.
 
 Real provider calls, input rejection and injected-output gate tests were recorded separately during
 development, including earlier failed calls and their successful retests. One earlier conclusion was
@@ -126,9 +135,10 @@ outside the boundary and is reached by two dashed edges and nothing else.
 
 ![Trust boundary](docs/assets/architecture-trust-boundary.svg)
 
-**The order things happen in.** Sixteen messages from browser-side encryption to receipt reporting.
-The adviser lifeline ends at step 5: it is absent for the key exchange, the decryption and the
-reporting that follow.
+**The order things happen in.** Nineteen messages from browser-side encryption to receipt reporting.
+The adviser appears twice and nowhere else: once at step 5 to choose a route, and again at steps 15
+and 16 when a delivery that must be acknowledged has not been collected. It is absent for the key
+exchange, the decryption, and the reporting in between.
 
 ![Delivery sequence](docs/assets/architecture-sequence.svg)
 
